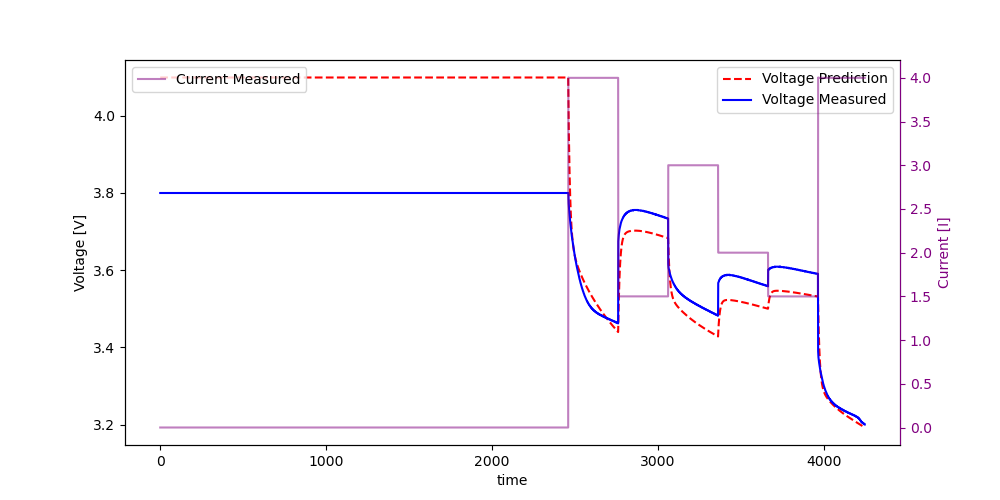
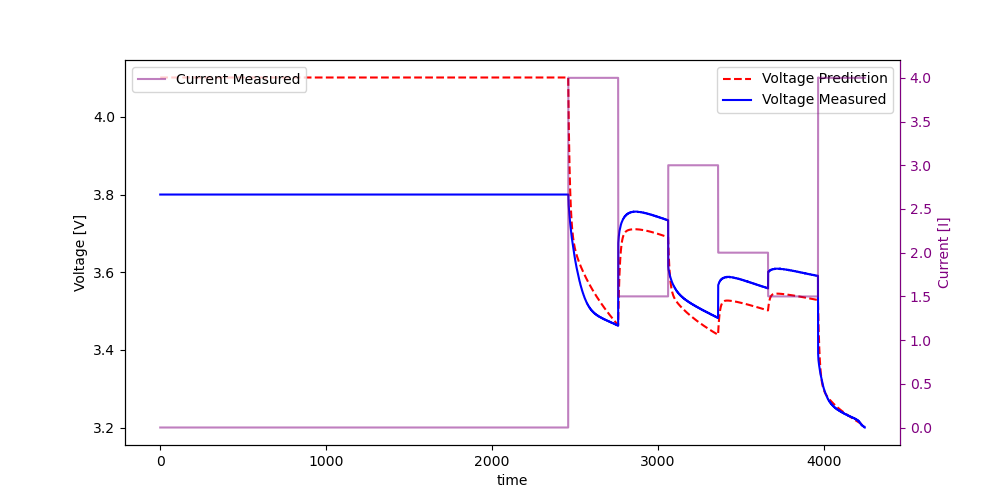
Please evaluate models on this branch

diff --git a/torch/eval_random_loading.py b/torch/eval_random_loading.py
@@ -11,37 +11,37 @@ import time
 from model import get_model
 #DEVICE = torch.device("cuda" if torch.cuda.is_available() else "cpu")
 DEVICE = torch.device("cpu")
+NUM_EPOCHS = 1000
+BATTERY = 1
 
 ###### FOR REFERENCE : DATA INGESTION STARTS HERE ##########
 data_RW = getDischargeMultipleBatteries(varnames=['voltage', 'current', 'time'], discharge_type='discharge (random walk)')
 
 max_size = 0
-num_seq = 10
+num_seq = 36
 
 inputs = []
 inputs_time = []
 target = []
-for k,rw_data in data_RW.items():
-    # skip batteries RW 9 to 12 for now (RW does not got to EOD)
-    if k>8:
-        continue
-    # rw_data = data_RW[1]
-    time_ = np.hstack([rw_data[2][i] for i in range(len(rw_data[2]))])
-    time_ = time_ - time_[0]
-    current_inputs = np.hstack([rw_data[1][i] for i in range(len(rw_data[1]))])
-    voltage_target = np.hstack([rw_data[0][i] for i in range(len(rw_data[0]))])
 
-    last_idx = 0
-    seq_durations = np.diff([0]+list(np.argwhere(np.diff(time_)>10)[:,0]+1))
-    
-    for curr_duration in seq_durations[:num_seq]:
-        if curr_duration>max_size:
-            max_size = curr_duration
-        curr_idx = last_idx + curr_duration
-        inputs.append(current_inputs[last_idx:curr_idx])
-        inputs_time.append(time_[last_idx:curr_idx])
-        target.append(voltage_target[last_idx:curr_idx])
-        last_idx = curr_idx
+
+rw_data = data_RW[BATTERY]
+time_ = np.hstack([rw_data[2][i] for i in range(len(rw_data[2]))])
+time_ = time_ - time_[0]
+current_inputs = np.hstack([rw_data[1][i] for i in range(len(rw_data[1]))])
+voltage_target = np.hstack([rw_data[0][i] for i in range(len(rw_data[0]))])
+
+last_idx = 0
+seq_durations = np.diff([0]+list(np.argwhere(np.diff(time_)>10)[:,0]+1))
+
+for curr_duration in seq_durations[:num_seq]:
+    if curr_duration>max_size:
+        max_size = curr_duration
+    curr_idx = last_idx + curr_duration
+    inputs.append(current_inputs[last_idx:curr_idx])
+    inputs_time.append(time_[last_idx:curr_idx])
+    target.append(voltage_target[last_idx:curr_idx])
+    last_idx = curr_idx
 
 # add nan to end of seq to have all seq in same size
 for i in range(len(inputs)):
@@ -80,16 +80,21 @@ for row in np.argwhere((target<EOD) | (np.isnan(target))):
         target_shiffed[row[0]] = np.ones(time_window_size) * target[row[0]][0]
         target_shiffed[row[0]][time_window_size-row_1:] = target[row[0]][:row_1]
 
-val_idx = np.linspace(0,31,6,dtype=int)
-train_idx = [i for i in np.arange(0,32) if i not in val_idx]
+val_idx = np.linspace(0,35,6,dtype=int)
+train_idx = [i for i in np.arange(0,36) if i not in val_idx]
 ###### FOR REFERENCE : DATA INGESTION ENDS HERE ##########
 
 
 
-###### FOR REFERENCE : MODEL LOADING STARTS HERE ##########
 
+
+###### FOR REFERENCE : TRAINING STARTS HERE #########
+        
+# Create the MLP model, optimizer, and criterion
 mlp = get_model(dt=dt, mlp=True, share_q_r=False, stateful=True).to(DEVICE)
-weights_path = 'torch_train/mlp_trained_weights_bias_correction.pth'
+
+# load trained weights for MLPp
+weights_path = 'torch_train/mlp_trained_weights.pth'
 mlp_p_weights = torch.load(weights_path)
 
 with torch.no_grad():
@@ -100,14 +105,71 @@ with torch.no_grad():
     mlp.cell.MLPp[5].weight.copy_(mlp_p_weights['cell.MLPp.5.weight'])
     mlp.cell.MLPp[5].bias.copy_(mlp_p_weights['cell.MLPp.5.bias'])
 
-#Ro_qmax_path ='torch_train/Ro_qmax_trained_weights.pth'
-Ro_qmax_path = 'torch_train/mlp_trained_weights_bias_correction.pth'
-Ro_qmax = torch.load(weights_path)
+# freeze MLPp
+for param in mlp.cell.MLPp.parameters():
+    param.requires_grad = False
 
-with torch.no_grad():
-    mlp.cell.qMax.copy_(Ro_qmax['cell.qMax']) 
-    mlp.cell.Ro.copy_(Ro_qmax['cell.Ro']) 
-###### FOR REFERENCE : MODEL LOADING ENDS HERE ##########
+optimizer = optim.Adam(mlp.parameters(), lr=5e-3)
+criterion = nn.MSELoss().to(DEVICE)
+param_count = sum(p.numel() for p in mlp.parameters() if p.requires_grad)
+print("Total number of trainable parameters are ",param_count)
+# Prepare data
+X = inputs_shiffed[train_idx,:,:]
+Y = target_shiffed[train_idx,:, np.newaxis]
+# Convert data to PyTorch tensors
+X_tensor = torch.from_numpy(X).to(DEVICE)
+Y_tensor = torch.from_numpy(Y).to(DEVICE)
+
+# Create PyTorch Dataset and DataLoader
+dataset = TensorDataset(X_tensor, Y_tensor)
+data_loader = DataLoader(dataset, batch_size=30, shuffle=True)
+print("I am loading ",len(data_loader))
+# Learning rate scheduler
+scheduler = optim.lr_scheduler.LambdaLR(optimizer, lambda epoch: 1 if epoch < 800 else (0.5 if epoch < 1100 else (0.25 if epoch < 2200 else 0.125)))
+# scheduler = optim.lr_scheduler.LambdaLR(optimizer, lambda epoch: 2e-2 if epoch < 800 else (1e-2 if epoch < 1100 else (5e-3 if epoch < 2200 else 1e-3)))
+untrained_parameter_value = [mlp.cell.Ro.data.item(), mlp.cell.qMax.data.item()]
+print("UnTrained Parameter Value:", untrained_parameter_value)
+# Training loop
+start = time.time()
+num_epochs = NUM_EPOCHS
+loss_warm_start = []
+for epoch in range(num_epochs):
+    mlp.train()
+    total_loss = 0.0
+    #print("Epochs are ",epoch)
+    for inputs, targets in data_loader:
+        inputs.to(DEVICE)
+        targets.to(DEVICE)
+
+        optimizer.zero_grad()
+        # Forward pass
+        outputs = mlp(inputs)
+
+        # Compute loss
+        loss = criterion(outputs, targets)
+
+        # Backpropagation
+        loss.backward()
+        # torch.nn.utils.clip_grad_norm_(mlp.parameters(), 1.0) #TODO: This sets gradient clipping
+        optimizer.step()
+        #scheduler.step()
+        total_loss += loss.item()
+
+    # Adjust learning rate using scheduler
+    #scheduler.step()   <-- no idea why they do this we have ADAM
+    # Print epoch statistics
+    if epoch % 100 == 0:
+        loss_warm_start.append(total_loss / len(data_loader))
+        print(f"Epoch {epoch}, Loss: {total_loss / len(data_loader)}, Time : {time.time()-start}, Ro: {mlp.cell.Ro.data.item()}, qMax: {mlp.cell.qMax.data.item()}")
+        for param_group in optimizer.param_groups:
+            current_learning_rate = param_group['lr']
+            print("Current Learning Rate:", current_learning_rate)
+
+# Save model weights
+torch.save(mlp.state_dict(), 'torch_train/Ro_qmax_trained_weights_battery_{BATTERY}.pth')
+trained_parameter_value = [mlp.cell.Ro.data.item(), mlp.cell.qMax.data.item()]
+print("Trained Parameter Value:", trained_parameter_value)
+###### FOR REFERENCE : TRAINING STARTS HERE #########
 
 
 ######## Validation is done here ##########
@@ -138,8 +200,8 @@ for i in range(X.shape[0]):
     ax2.spines["right"].set_edgecolor('purple')
     ax2.tick_params(axis='y', colors='purple')
 
-    plt.savefig(f'figures/predictionvsreality_random_walk_unshiffed{i}_Ro_qMax.png')
-    plt.show()
+    plt.savefig(f'figures/predictionvsreality_random_walk_unshiffed{i}_Ro_qMax_battery_{BATTERY}.png')
+    # plt.show()
 ######## Validation is done here ##########
 
 
@@ -171,6 +233,6 @@ for i in range(X.shape[0]):
     ax2.spines["right"].set_edgecolor('purple')
     ax2.tick_params(axis='y', colors='purple')
 
-    plt.savefig(f'figures/predictionvsreality_random_walk_shiffed{i}_Ro_qMax.png')
-    plt.show()
+    plt.savefig(f'figures/predictionvsreality_random_walk_shiffed{i}_Ro_qMax_battery_{BATTERY}.png')
+    # plt.show()
 ######## Validation is done here ##########

diff --git a/torch/eval_reference_discharge.py b/torch/eval_reference_discharge.py
@@ -74,7 +74,7 @@ train_idx = [i for i in np.arange(0,36) if i not in val_idx]
 
 ###### FOR REFERENCE : MODEL LOADING STARTS HERE ##########
 mlp = get_model(dt=dt, mlp=True, share_q_r=False, stateful=True).to(DEVICE)
-weights_path = 'torch_train/mlp_trained_weights_bias_correction.pth'
+weights_path = 'torch_train/mlp_trained_weights_bias_correction_4.pth'
 mlp_p_weights = torch.load(weights_path)
 
 with torch.no_grad():
@@ -87,7 +87,7 @@ with torch.no_grad():
 
     
 #Ro_qmax_path ='torch_train/Ro_qmax_trained_weights.pth'
-Ro_qmax_path = 'torch_train/mlp_trained_weights_bias_correction.pth'
+Ro_qmax_path = 'torch_train/mlp_trained_weights_bias_correction_4.pth'
 Ro_qmax = torch.load(weights_path)
 
 with torch.no_grad():
